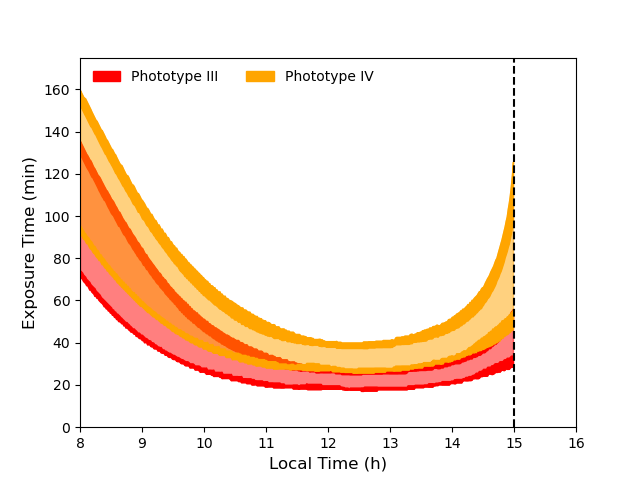
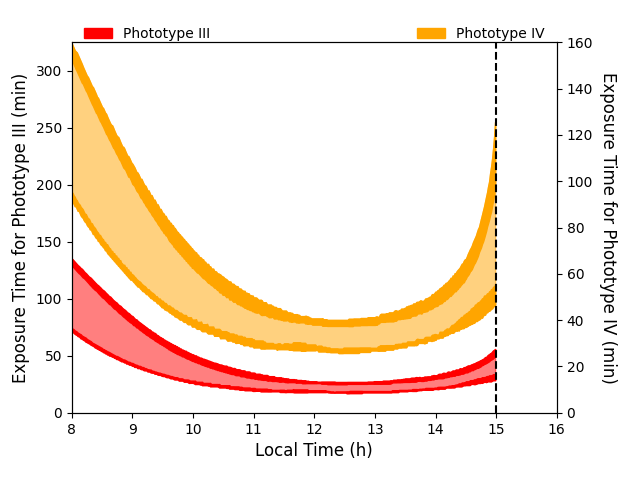
Change in the Script 2017-2018/UVd2.py

Changed region(s): [[0.0, 0.0312, 0.9688, 1.0], [0.375, 0.125, 0.5938, 0.1875], [0.2188, 0.9062, 0.25, 0.9375]]

diff --git a/2017-2018/Scripts/UVd2.py b/2017-2018/Scripts/UVd2.py
@@ -11,10 +11,11 @@ t=np.zeros([2,2,(t_f-t_i)*60,2])
 #<-----------------------------Parametros de las graficas---------------------->
 x=np.arange(8,15,1/60)
 fig,ax1=plt.subplots()
+plt.subplots_adjust(left=0.112,right=0.87,bottom=0.14,top= 0.912)
 plt.xlabel("Local Time (h)",fontsize="large")
 ax2=ax1.twinx()
-ax1.set_ylabel("Exposure Time to Phototype III (min)",fontsize="large")
-ax2.set_ylabel("Exposure Time to Phototype IV (min)",fontsize="large")
+ax1.set_ylabel("Exposure Time for Phototype III (min)",fontsize="large")
+ax2.set_ylabel("Exposure Time for Phototype IV (min)",fontsize="large",va="bottom",rotation=-90)
 plt.xlim(8,16)#;plt.ylim(0,175)
 #<-----------------------------Inicio del calculo------------------------------>
 for n_med in range(2):
@@ -48,10 +49,10 @@ ax2.fill_between(x,t[n_med,0,:,0],t[n_med,0,:,1],color=color[n_med])
 ax2.fill_between(x,t[n_med,1,:,0],t[n_med,1,:,1],color=color[n_med],label=phototype[n_med])
 #<------------------------Grafica del intermedio--------------------------->
 ax2.fill_between(x,t[n_med,0,:,1],t[n_med,1,:,0],color=color[n_med],alpha=0.5)
-ax1.plot([15,15],[0,175],ls="--",color="black")
-ax1.set_ylim(0,400)
-ax2.set_ylim(0,175)
-ax1.legend(frameon=False,loc=2)
-ax2.legend(frameon=False,loc=1)
-#plt.savefig("../Graficas/FillDosis.png")
+ax2.plot([15,15],[0,200],ls="--",color="black")
+ax1.set_ylim(0,325)
+ax2.set_ylim(0,160)
+ax1.legend(frameon=False,loc=2,bbox_to_anchor=(0., 1.055,1,0.02))
+ax2.legend(frameon=False,loc=1,bbox_to_anchor=(0, 1.055,1,0.02))
+plt.savefig("../Graficas/FillDosis.png")
 plt.show()

diff --git a/2017-2018/Scripts/prueba.py b/2017-2018/Scripts/prueba.py
@@ -1,0 +1,9 @@
+import numpy as np
+import matplotlib.pyplot as plt
+x=np.arange(0,10,0.1)
+y=x**2
+y2=x**3
+plt.plot(x,y,label="fffff")
+plt.plot(x,y2,label="yyyyy")
+plt.legend(frameon=False,ncol=2,loc=2,bbox_to_anchor=(0., 1.05,1,0.02),borderaxespad=0,mode="expand")
+plt.show()
